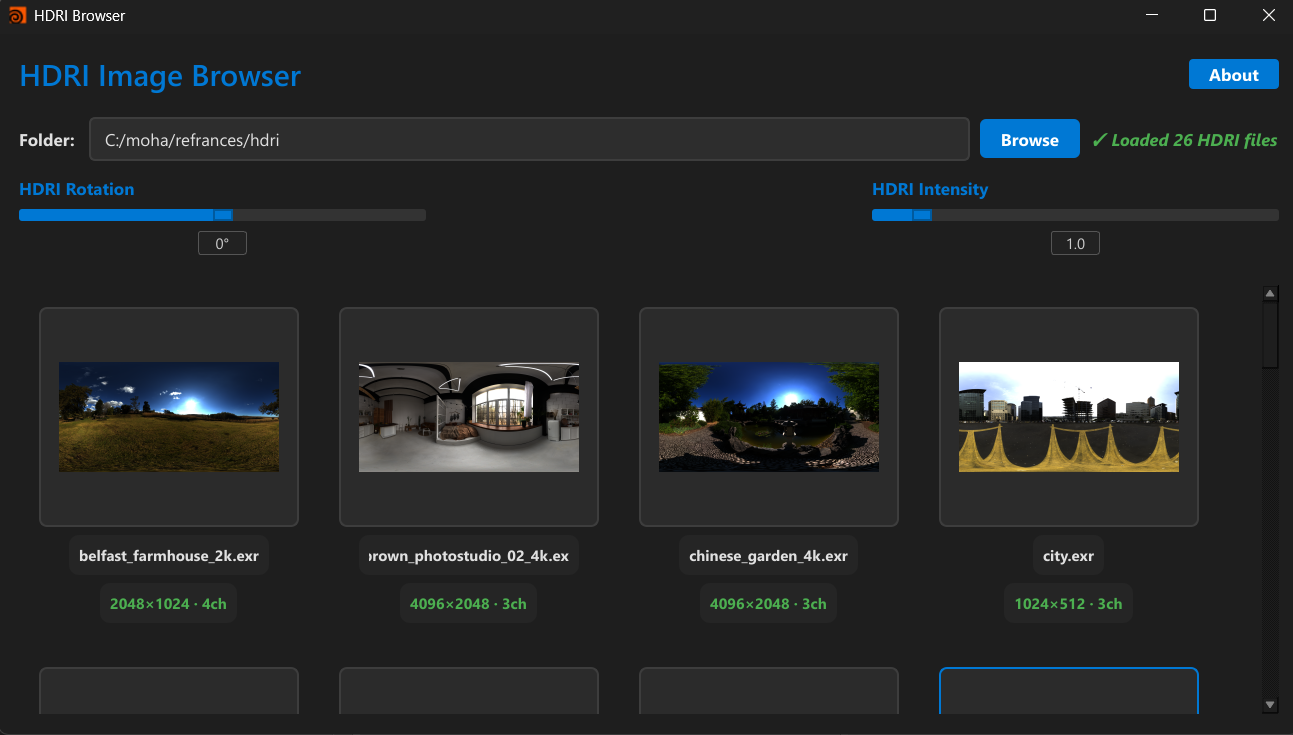
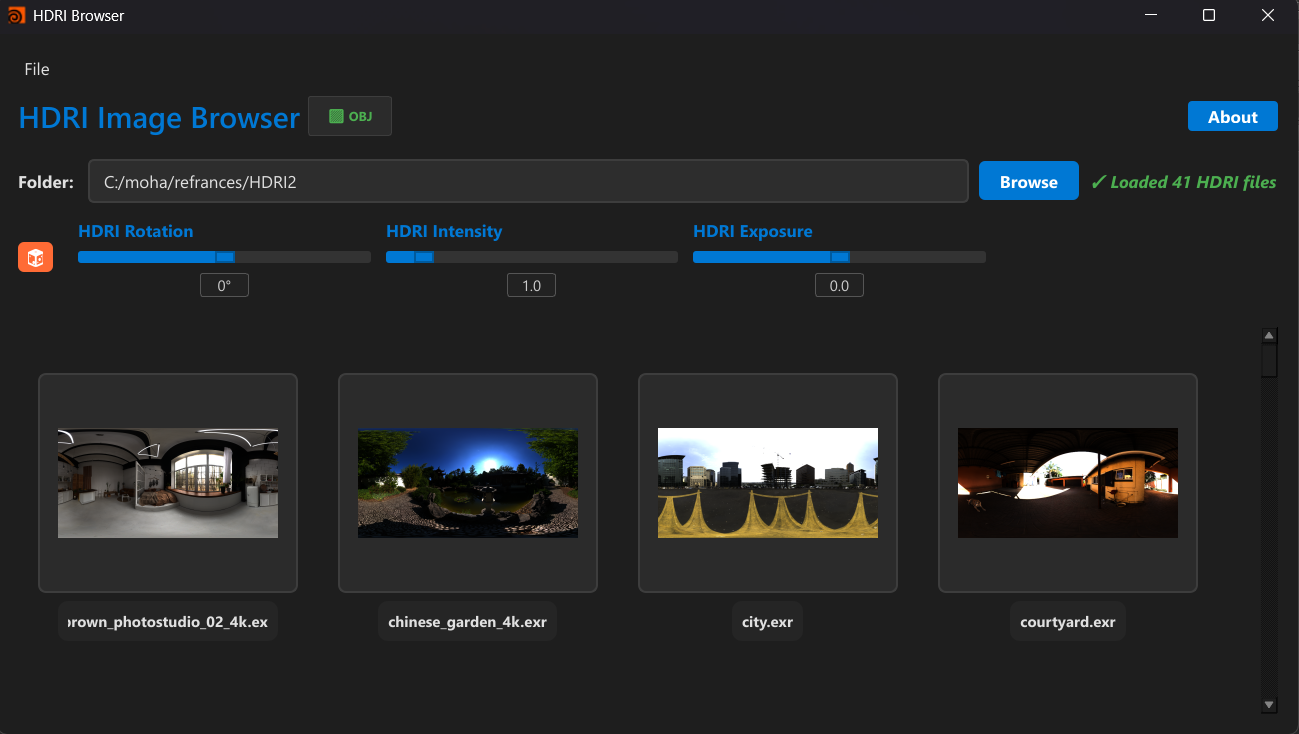
ReadmeUpdate

diff --git a/README.md b/README.md
@@ -37,6 +37,8 @@ instantly as **Environment Lights** inside Houdini with a single click.
 
 - ![image](images/ui_main.png)
 - ![image](images/ui_loaded.png)
+- ![image](images/SetupUI.png)
+
 
 ---
 ## 🎥 Demo 
